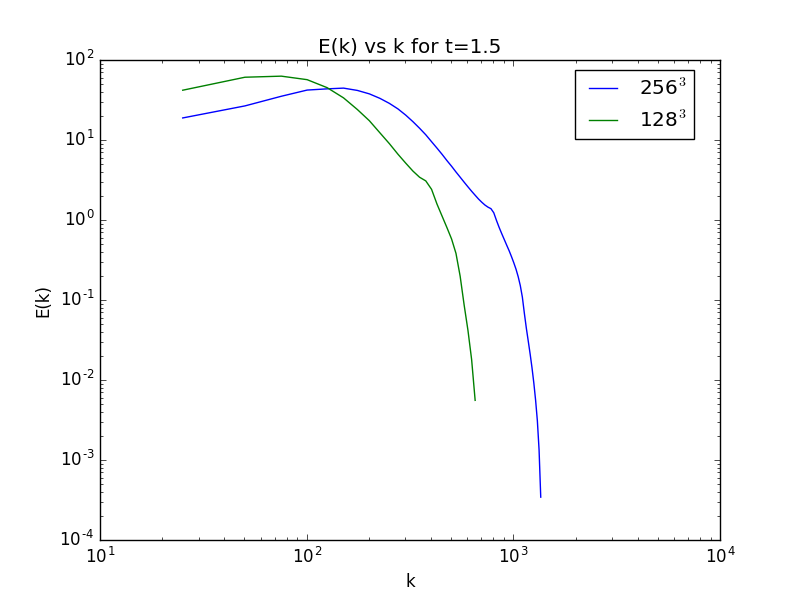
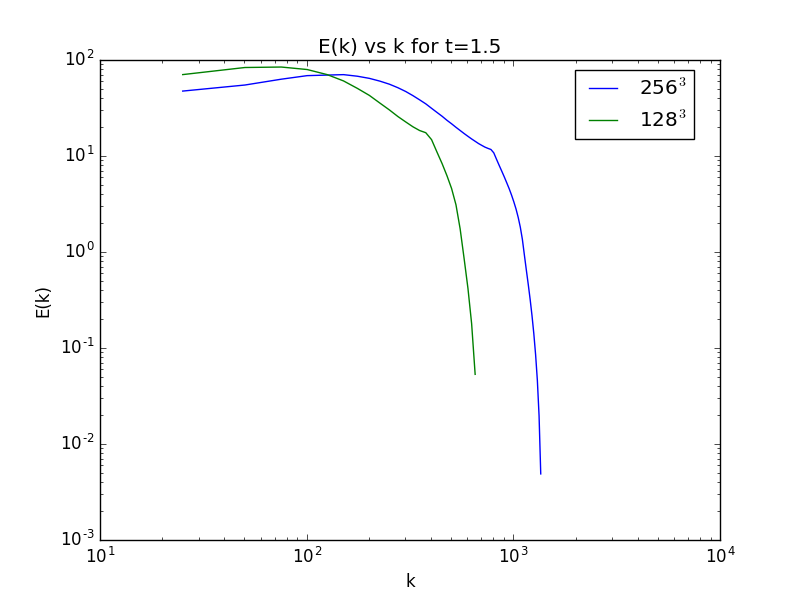
Small modifications, tweaking filenumbers, and resolutions.

diff --git a/double_power_spectra.py b/double_power_spectra.py
@@ -14,7 +14,7 @@ n2=np.array([128,128,128])
 #Declare all parameters and filenames, file location
 
 filedir="/home/rajsekhar/MHD-TURBULE-01/HD-setup/Data/"
-filenumber=13
+filenumber=15
 
 z=1.0
 solver="hllc"
@@ -48,7 +48,7 @@ plt.xlabel('k')
 plt.ylabel('E(k)*$k^{5/3}$')
 leg = ax.legend(loc=2, bbox_to_anchor=(0.75, 1.0))
 #plt.ylim(10**11,10**15)
-plt.title('Compensated E(k) vs k for t='+str(filenumber/10))
+plt.title('Compensated E(k) vs k for t='+str(float(filenumber)/10))
 
 plt.savefig('E_k_compensated'+str(filenumber)+'.png')
 
@@ -61,7 +61,7 @@ leg = ax.legend(loc=2, bbox_to_anchor=(0.75, 1.0))
 plt.xlabel('k')
 plt.ylabel('E(k)')
 #plt.ylim(10**11,10**15)
-plt.title('E(k) vs k for t='+str(filenumber/10))
+plt.title('E(k) vs k for t='+str(float(filenumber)/10))
 
 plt.savefig('E_k'+str(filenumber)+'.png')
 

diff --git a/real_power_spectra.py b/real_power_spectra.py
@@ -12,11 +12,6 @@ import pyPLUTO as pp
 
 #Compute how long the simulation takes
 start_time = time.time()
-'''
-#average is a quantity that denotes the number of k^2 data points we have averaged over to get E(k) and k at the desired point
-
-average=20
-'''
 #bin_size denotes the division of k space into bins of size 2*pi*bin_size
 bin_size=4
 
